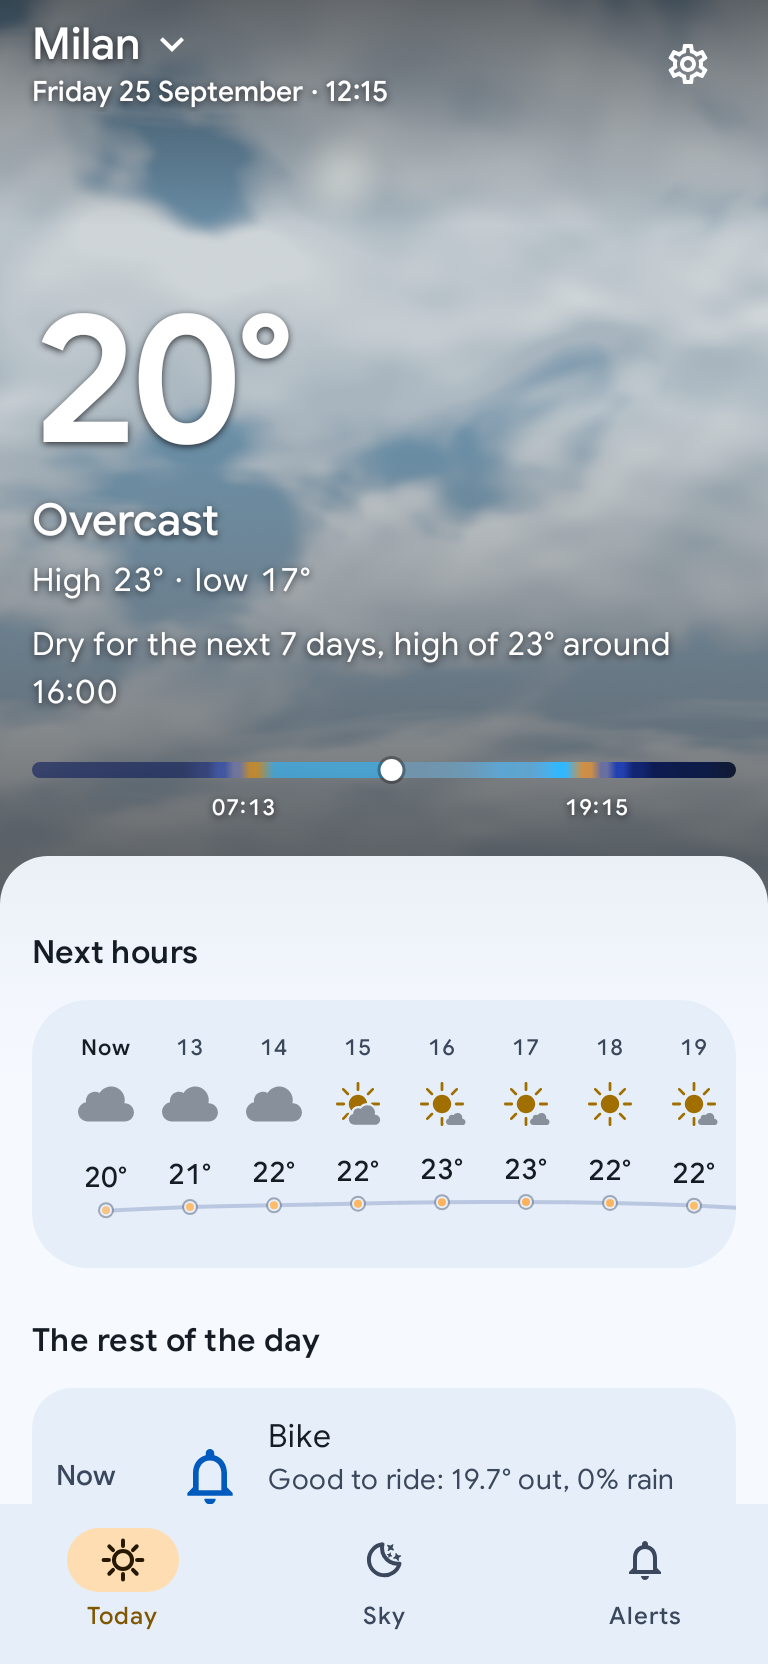
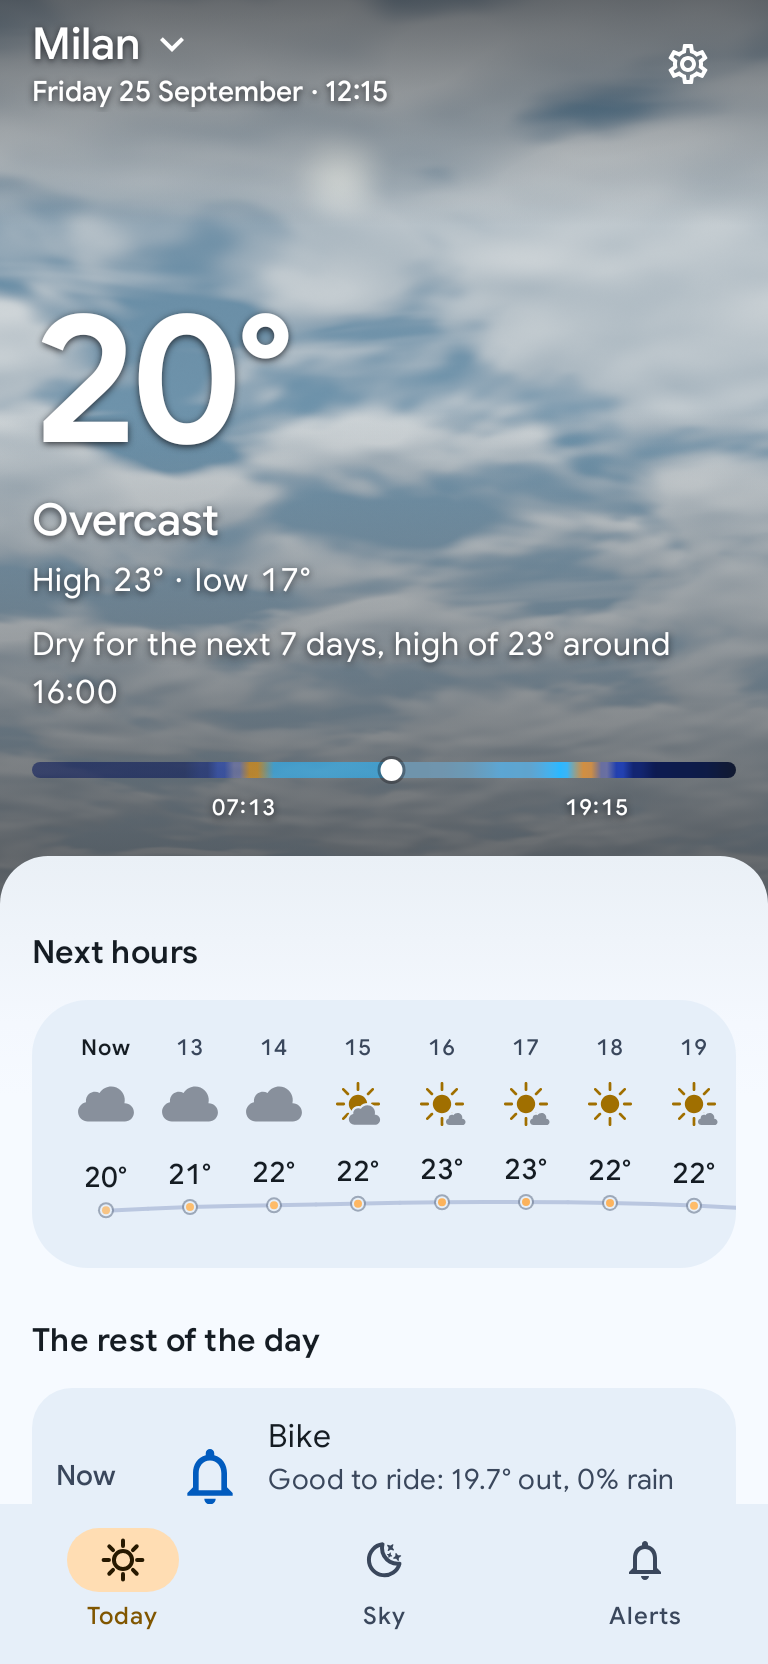
Sky: the deck as a plane seen from below
Step 4 of the sky review (PLANNING, 19 ott 2026). The canvas' rows are
elevations, 45° at the top down to 15° at the bottom, and a row's ray meets
the deck at 1/tan(elevation) of its height: overhead the clouds are near and
big, toward the horizon far, small and flat together, and they drift 1.7
times faster at the top than at the bottom. Until then the field was only
squashed in height and the clouds were a wall. The scale is the old one at
the middle row, so deckThreshold's table holds on the new sampling (measured
within 0.021, as before); SkyDeckTest mirrors the projection.

diff --git a/app/src/test/kotlin/com/callbackdev/chiaro/ui/components/SkyDeckTest.kt b/app/src/test/kotlin/com/callbackdev/chiaro/ui/components/SkyDeckTest.kt
@@ -17,8 +17,11 @@ class SkyDeckTest {
     @Test
     fun `the port is the shader's deck`() {
         listOf(
-            "float persp = mix(1.0, 1.5, uv.y);",
-            "float2 p = float2((q.x + drift) * 0.0105, q.y * 0.0105 * persp);",
+            "float elev = mix(0.7854, 0.2618, uv.y);",
+            "float dist = 1.0 / tan(elev);",
+            "float focal = (uSize.y / uPx) / (0.7854 - 0.2618);",
+            "float2 ground = float2((q.x - 0.5 * uSize.x / uPx) * dist / focal + drift * 1.732 / focal, dist);",
+            "float2 p = ground * (focal / (1.732 * 95.0));",
             "float2 w = float2(fbm2(p * 0.7 + float2(3.1, 7.7)), fbm2(p * 0.7 + float2(9.4, 1.3)));",
             "float2 pw = p + (w - 0.5) * 0.6;",
             // fbmParts is fbm with its two- and three-octave sums handed back: the same n.
@@ -70,12 +73,17 @@ class SkyDeckTest {
         val w = 400
         val h = 300
         val out = ArrayList<Float>(w * h * 24 / 16)
+        // The plane projection, as the shader writes it (step 4, 19 ott 2026): elevations 45°
+        // to 15° down the canvas, the field sampled where the row's ray meets the deck.
+        val focal = h / (0.7854f - 0.2618f)
         for (k in 0 until 24) {
             val drift = k * 4100f
             for (y in 0 until h step 4) for (x in 0 until w step 4) {
-                val persp = 1f + 0.5f * (y.toFloat() / h)
-                val px = (x + drift) * 0.0105f
-                val py = y * 0.0105f * persp
+                val elev = 0.7854f + (0.2618f - 0.7854f) * (y.toFloat() / h)
+                val dist = 1f / kotlin.math.tan(elev)
+                val scale = focal / (1.732f * 95f)
+                val px = ((x - w / 2f) * dist / focal + drift * 1.732f / focal) * scale
+                val py = dist * scale
                 val wx = fbm2(px * 0.7f + 3.1f, py * 0.7f + 7.7f)
                 val wy = fbm2(px * 0.7f + 9.4f, py * 0.7f + 1.3f)
                 out += fbm(px + (wx - 0.5f) * 0.6f, py + (wy - 0.5f) * 0.6f)

diff --git a/app/src/main/kotlin/com/callbackdev/chiaro/ui/components/SkyShader.kt b/app/src/main/kotlin/com/callbackdev/chiaro/ui/components/SkyShader.kt
@@ -555,7 +555,22 @@ half4 main(float2 fc) {
     float deck3 = 0.0;
     float2 deckP = float2(0.0, 0.0);
     if (uDeck > 0.01) {
-        float2 p = float2((q.x + drift) * 0.0105, q.y * 0.0105 * persp);
+        // The deck as a plane at one height seen from below (step 4 of the sky review, 19 ott
+        // 2026). The canvas' rows are elevations, 45° at the top down to 15° at the bottom, and
+        // a row's ray meets the plane at 1 / tan(elevation) of its height: overhead the clouds
+        // are near and big, toward the horizon far, small and flat, together, and they drift
+        // across the screen 1.7 times faster at the top than at the bottom, the parallax a
+        // deck has. Until then the field was only squashed in height toward the bottom, by
+        // half, and the clouds were a wall: the same width at the top and at the bottom. The
+        // elevations span the canvas whatever its height, so a taller canvas sees the same sky
+        // with a touch wider cells and never a horizon low enough to alias the noise; the
+        // scale is the old one at the middle row, 95 dp a cell, so deckThreshold's table holds
+        // (measured on 24 canvases: the mean alpha is the deck within 0.021, as before).
+        float elev = mix(0.7854, 0.2618, uv.y);
+        float dist = 1.0 / tan(elev);
+        float focal = (uSize.y / uPx) / (0.7854 - 0.2618);
+        float2 ground = float2((q.x - 0.5 * uSize.x / uPx) * dist / focal + drift * 1.732 / focal, dist);
+        float2 p = ground * (focal / (1.732 * 95.0));
         float2 w = float2(fbm2(p * 0.7 + float2(3.1, 7.7)), fbm2(p * 0.7 + float2(9.4, 1.3)));
         // 0.6 and not more: at 0.9 the warp folded the plane over itself here and there
         // (its Jacobian went negative), and every fold drew a crease drifting with the clouds.

diff --git a/PLANNING.md b/PLANNING.md
@@ -14816,7 +14816,7 @@ vetro).
   gradiente sotto nuvole e pioggia (§3.3) scende a 0,09 di luminanza, più scuro dell'ombra di
   qualunque nuvola, e un varco in cima resta un buco scuro; va rivisto nel modello del gradiente,
   che legge anche il nastro.
-- [ ] **4. La proiezione a piano.** Il banco come un piano a quota h visto da sotto: u = x·k/(y_h −
+- [x] **4. La proiezione a piano.** Il banco come un piano a quota h visto da sotto: u = x·k/(y_h −
   y), v = k/(y_h − y) con l'orizzonte y_h sotto il bordo inferiore, al posto dello schiacciamento
   verticale di `persp`. Le nuvole rimpiccioliscono e si appiattiscono verso l'orizzonte insieme. La
   tabella di `deckThreshold` va rimisurata sul nuovo campionamento (`SkyDeckTest`).
@@ -15098,3 +15098,47 @@ colore dello scrim, in `ui/theme`), `ScrimContractTest` e `PaletteDocTest` invar
 rigenerate e guardate: `today-now`, `today-foldable` (la cifra si stacca dalle cime delle nuvole, la
 riga del luogo e gli orari con il velo) e `settings`; le altre identiche. Suite completa (748 app
 debug con i 14 screenshot saltati, 700 release) e lint con 0 errori.
+
+### Passo 4: la proiezione a piano (19 ott 2026)
+
+**Cosa è cambiato.** Il banco è un piano a una quota, visto da sotto. Le righe del canvas sono
+elevazioni, 45° in cima e 15° in fondo, e il raggio di una riga incontra il piano a 1/tan(elevazione)
+della sua quota: il campo del rumore si campiona in `((x − cx)·dist/f + deriva·dist_m/f, dist)`, con
+`f` la focale che fa stare quelle elevazioni nell'altezza del canvas e `dist_m` la distanza della riga
+di mezzo (30°, 1,732). Sopra la testa le nuvole sono vicine e grandi, verso l'orizzonte lontane,
+piccole e piatte insieme; e scorrono sullo schermo 1,7 volte più in fretta in cima che in fondo, la
+parallasse di un banco vero. Prima il campo era solo schiacciato in altezza verso il fondo, della
+metà, e le nuvole erano una parete: larghe uguali in cima e in fondo. La scala è quella di prima
+sulla riga di mezzo, 95 dp per cella, e le elevazioni coprono il canvas qualunque sia la sua altezza
+(un canvas più alto vede lo stesso cielo con celle un filo più larghe, mai un orizzonte così basso da
+far scintillare il rumore). I cirri tengono il loro stiramento; pioggia, neve e stelle sono dello
+schermo. DESIGN §3.9.
+
+**Decisioni e deviazioni.** *La tabella delle soglie non si rimisura*: il piano diceva di farlo, ma
+misurata sul nuovo campionamento (24 canvas, come `SkyDeckTest`) l'alfa medio centra la quota del
+banco con uno scarto massimo di 0,021, lo stesso dello schiacciamento di prima, perché i valori del
+campo hanno la stessa distribuzione comunque lo si campioni; cambia la varianza di un canvas solo (in
+cima ci sono poche celle grandi), che è quella di un'occhiata al cielo. *45°–15° e non 55°–20°*:
+resi tutti e due accanto allo schiacciamento attuale su quattro cieli, quasi uguali; il primo dà un
+po' più di cielo. *Le elevazioni legate all'altezza del canvas e non a una focale fissa*: con la
+focale fissa un canvas da 450 dp (testo grande) scenderebbe a 6,6° in fondo, celle di 3 dp e la
+quarta ottava sotto il pixel. *La direzione della luce nel campo resta quella dello schermo*: in
+coordinate del piano «su» è «più vicino», e l'ombreggiatura è una stilizzazione a due dimensioni
+comunque; la rende uguale a prima.
+
+**Da verificare sul telefono.** I cumuli al 25% e al 50%: grandi in alto, una fascia sottile in fondo;
+la deriva più veloce in cima che in fondo; un coperto che recede verso l'orizzonte.
+
+**Come è stato verificato.** Il prototipo NumPy (`skyport4.py`): la tabella delle soglie misurata sul
+nuovo campionamento (24 canvas di 400 × 300 dp, un punto ogni 4 dp, 100 000 dp di deriva) per lo
+schiacciamento attuale e per due coppie di elevazioni, alfa medio contro quota del banco entro 0,021,
+0,021 e 0,023; quattro cieli (25%, 50% col sole a est, ora d'oro, coperto) resi nelle tre versioni e
+guardati. `SkyDeckTest` fissa le cinque righe della proiezione e misura la quota del banco sul port
+rifatto con la stessa aritmetica, entro il 3% dal 10 al 90% come prima; `SkyShaderCompileTest` e
+`SkyShaderPixelTest` verdi (i corpi e il tetto non cambiano). Le rese dello shader vero
+(`CHIARO_RENDER_DIR`) guardate: cumuli grandi in alto e una fascia schiacciata in fondo, sotto
+pioggia e coperto il banco recede verso l'orizzonte, la notte con la luna. Immagini del README
+rigenerate e guardate: `today-now` e `today-foldable` (la Milano coperta recede), `settings`
+(l'ora d'oro su un ritaglio basso, nuvole allungate come si deve); le altre identiche. Suite
+completa (748 app debug con i 14 screenshot saltati, 700 release, i moduli core invariati) e lint con
+0 errori.

diff --git a/DESIGN.md b/DESIGN.md
@@ -706,8 +706,17 @@ with the parts of it a gradient could not say.
   `i.x·0.1031 + 0.1031`, rounded twice, while the cell next door hashes the same corner from
   its own `floor`; the hash multiplies that one bit until, once in a few thousand corners, its
   last `fract` crosses a whole number, and the corner has two values. The clouds then carried a
-  wedge with two sharp sides, a third-octave cell's size, that no CPU render showed; in dp so they have the same grain on every screen, and flatter toward
-  the horizon (the canvas' bottom) as a deck is in perspective. **The clouds take the
+  wedge with two sharp sides, a third-octave cell's size, that no CPU render showed; in dp so they have the same grain on every screen. **The deck is a
+  plane seen from below** (step 4 of the sky review, 19 ott 2026): the canvas' rows are
+  elevations, 45° at the top down to 15° at the bottom, and a row's ray meets the plane at
+  1/tan(elevation) of its height, so overhead the clouds are near and big, toward the horizon
+  far, small and flat together, and they drift across the screen 1.7 times faster at the top
+  than at the bottom, the parallax a deck has. Until then the field was only squashed in height
+  toward the bottom, by half, and the clouds were a wall, the same width at the top and at the
+  bottom. The elevations span the canvas whatever its height (a taller canvas sees the same sky
+  with a touch wider cells, never a horizon low enough to alias the noise), the scale is the old
+  one at the middle row, 95 dp a cell, and `deckThreshold`'s table holds on the new sampling,
+  measured on 24 canvases within 0.021 as before. The cirrus keeps its own stretch. **The clouds take the
   deck's share of the canvas** (16 ott 2026, `deckThreshold`, `SkyDeckTest`): the threshold is
   read from a table measured on the shader's own noise (1.8 million points, sixty 400 × 300 dp
   canvases along 100 000 dp of drift) at which the clouds' mean alpha is the deck, every 5%.
